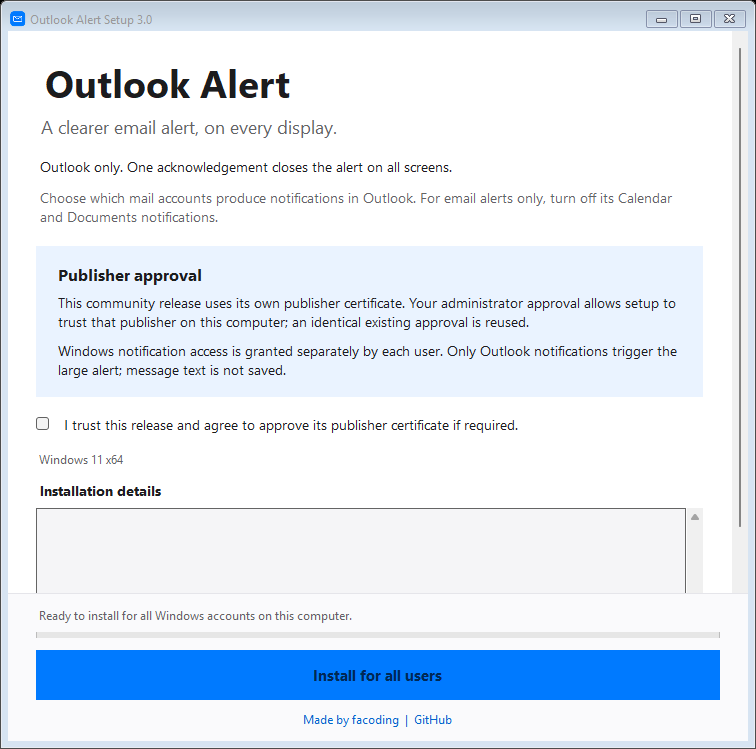
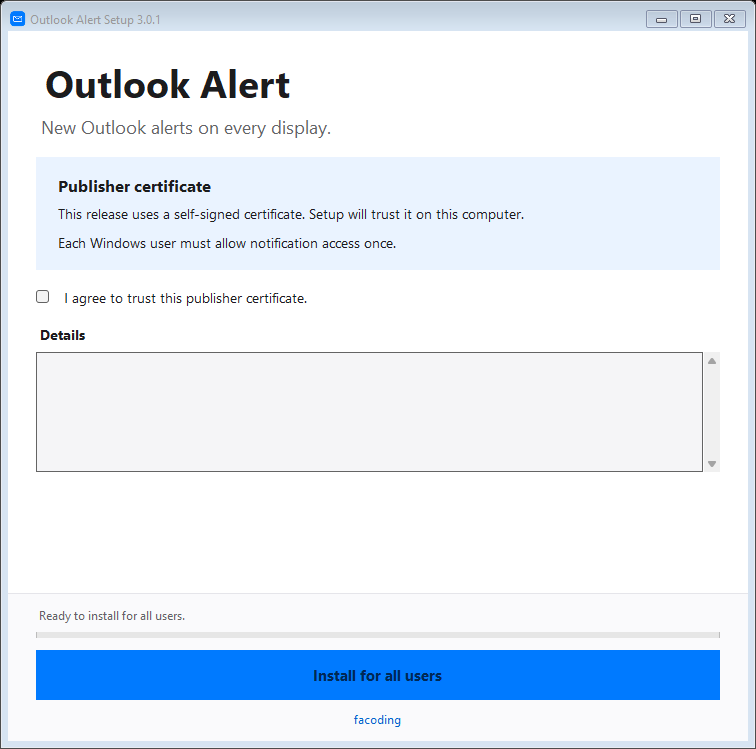
Refresh 3.0.1 Windows previews and verification notes

diff --git a/README.md b/README.md
@@ -4,7 +4,7 @@ A Windows desktop app by [facoding](https://github.com/faCoding97) that makes ne
 
 When New Outlook posts a Windows notification, Outlook Alert displays a large card on every connected display. The card stays visible until you acknowledge it. One click closes the cards on all screens.
 
-[Download the Windows installer](https://github.com/faCoding97/Outlook-Alert-FaCoding/releases/tag/v3.0.1) · [Installation guide](docs/INSTALLATION.md) · [Build from source](docs/BUILDING.md) · [Privacy](docs/PRIVACY.md)
+[Windows releases](https://github.com/faCoding97/Outlook-Alert-FaCoding/releases) · [Installation guide](docs/INSTALLATION.md) · [Build from source](docs/BUILDING.md) · [Privacy](docs/PRIVACY.md)
 
 ## What it does
 
@@ -19,11 +19,13 @@ When New Outlook posts a Windows notification, Outlook Alert displays a large ca
 
 It is useful when Outlook is minimized, you often switch between applications, or you miss a small notification on another monitor.
 
+![Outlook Alert with a short message and facoding signature](docs/assets/alert-preview.png)
+
 ![Outlook Alert installer with a scrollable body and fixed Install footer](docs/assets/installer-windows-layout.png)
 
 Installer source rendered during the Windows layout check. The footer stays reachable when the window is resized.
 
-The initial **3.0 public release is a pre-release**. Windows CI checks the installer layout, but real multi-profile provisioning, first-use permission and removal still need a Windows 11 device check.
+The initial **3.0.1 public release is a pre-release**. The installer is prepared; its public release upload is pending. Windows CI checks the installer layout, but real multi-profile provisioning, first-use permission and removal still need a Windows 11 device check.
 
 ## Requirements
 
@@ -36,7 +38,7 @@ The installer includes the app runtime. You do not need Visual Studio, a .NET SD
 
 ## Install and start
 
-1. Download `OutlookAlert-Setup-3.0.1.exe` from [Releases](https://github.com/faCoding97/Outlook-Alert-FaCoding/releases/tag/v3.0.1).
+1. Download `OutlookAlert-Setup-3.0.1.exe` from [Releases](https://github.com/faCoding97/Outlook-Alert-FaCoding/releases).
 2. Double-click setup and approve Administrator access, or choose **Run as administrator**. Select the publisher consent and **Install for all users**.
 3. In your own normal Windows session, open **Outlook Alert by facoding** from Start, select **Enable monitoring**, and allow Windows notification access.
 4. Check that the app reports that monitoring is ready. Enable automatic startup and confirm the displayed startup status.

diff --git a/docs/BUILDING.md b/docs/BUILDING.md
@@ -73,8 +73,8 @@ Before publication, check the source and assets for personal mailbox addresses, 
 
 ## Windows layout checks
 
-[Windows CI run 45404539302](https://github.com/faCoding97/Outlook-Alert-FaCoding/actions/runs/45404539302) completed successfully for
-[source commit 94f348c](https://github.com/faCoding97/Outlook-Alert-FaCoding/commit/94f348c0c4e4dcecc62bd64d5d8fca393f3830d7) on Windows Server 2025. The app, launcher and
+[Windows CI run 45408497239](https://github.com/faCoding97/Outlook-Alert-FaCoding/actions/runs/45408497239) completed successfully for
+[source commit 3dd4400](https://github.com/faCoding97/Outlook-Alert-FaCoding/commit/3dd4400960560eeaf7e15621af1151ace128ee85) on Windows Server 2025. The app, launcher and
 installer source builds passed, followed by all 24 notification-policy checks and
 all 9 installer layout cases.
 

diff --git a/docs/INSTALLATION.md b/docs/INSTALLATION.md
@@ -77,8 +77,8 @@ exact fingerprint when it is no longer needed; see [privacy and signing](PRIVACY
 
 ## Verification scope
 
-[Windows CI run 45404539302](https://github.com/faCoding97/Outlook-Alert-FaCoding/actions/runs/45404539302) passed for
-[source commit 94f348c](https://github.com/faCoding97/Outlook-Alert-FaCoding/commit/94f348c0c4e4dcecc62bd64d5d8fca393f3830d7) on a Windows Server 2025 runner. It built the app,
+[Windows CI run 45408497239](https://github.com/faCoding97/Outlook-Alert-FaCoding/actions/runs/45408497239) passed for
+[source commit 3dd4400](https://github.com/faCoding97/Outlook-Alert-FaCoding/commit/3dd4400960560eeaf7e15621af1151ace128ee85) on a Windows Server 2025 runner. It built the app,
 launcher and installer source, passed 24 notification-policy checks, and passed all
 9 installer viewport/font-stress cases.
 

diff --git a/docs/CHANGELOG.md b/docs/CHANGELOG.md
@@ -7,6 +7,8 @@
 - Shortens setup copy and removes mailbox-specific guidance from the installer.
 - Replaces the unpublished 3.0.0 release candidate.
 
+Verification: [Windows CI run 45408497239](https://github.com/faCoding97/Outlook-Alert-FaCoding/actions/runs/45408497239) passed source builds, 24 policy checks, 9 installer layout cases and rendering of the actual alert markup for source commit `3dd4400`. Real multi-user installation remains a device-validation item.
+
 ## 3.0.0 — 2026-11-24 (pre-release)
 
 - Adds a small facoding signature to the alert and creator details to setup.
